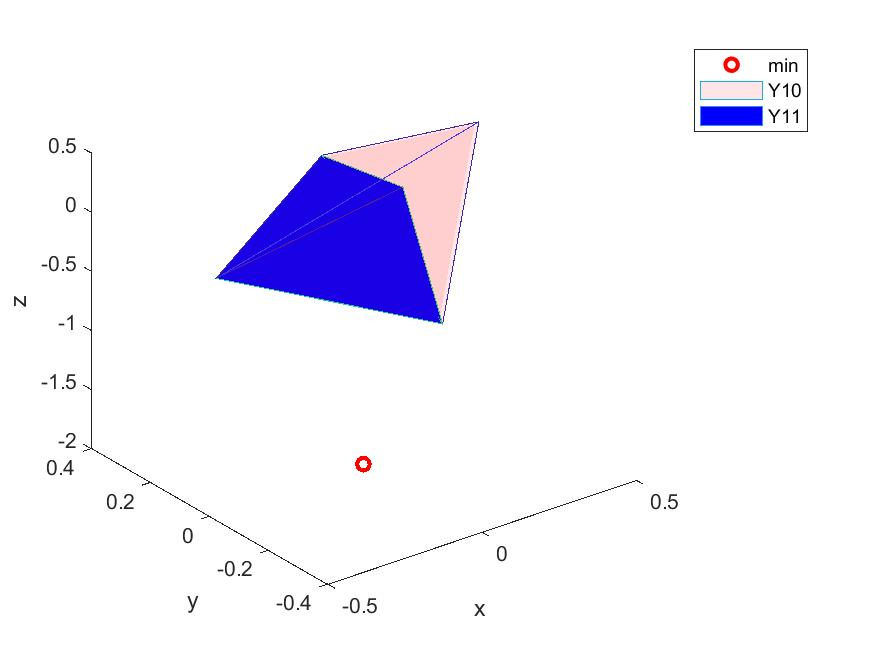
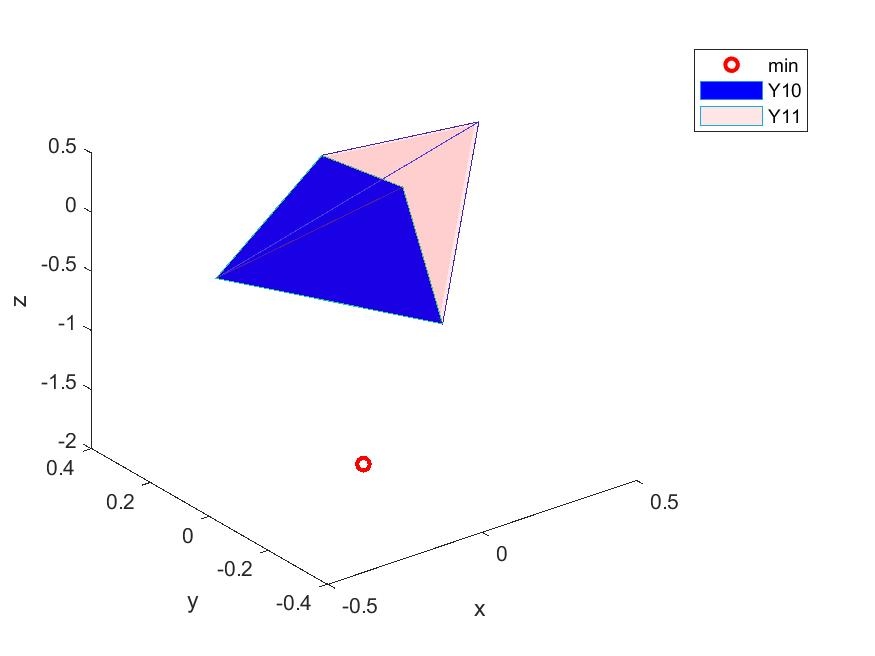
yo

diff --git a/simplexPlot.m b/simplexPlot.m
@@ -6,16 +6,24 @@ classdef simplexPlot
     methods(Static)
         function j = plot(X,Y,iter,outputFile)
             
-
             [k1,av1] = convhull(X(1,:),X(2,:),X(3,:));
             [k2,av2] = convhull(Y(1,:),Y(2,:),Y(3,:));
+            if mod(iter,2) == 1
             s1 = trimesh(k1,X(1,:),X(2,:),X(3,:),'FaceColor','red','DisplayName',strcat('Y',string(iter)));
             hold on;            
             s2 = trimesh(k2,Y(1,:),Y(2,:),Y(3,:),'FaceColor','blue','DisplayName',strcat('Y',string(iter+1)));
             alpha(s1,0.1);
             legend show;
-
+            else 
+            [k1,av1] = convhull(X(1,:),X(2,:),X(3,:));
+            [k2,av2] = convhull(Y(1,:),Y(2,:),Y(3,:));
+            s1 = trimesh(k2,Y(1,:),Y(2,:),Y(3,:),'FaceColor','blue','DisplayName',strcat('Y',string(iter)));
+            hold on;            
+            s2 = trimesh(k1,X(1,:),X(2,:),X(3,:),'FaceColor','red','DisplayName',strcat('Y',string(iter+1)));
+            alpha(s2,0.1);
+            legend show;    
             %saveas(gcf,strcat(outputFile,'simplex',string(iter), '-',string(iter+1),'.png'));
+            end
             hold off;
         end
         function j = plot2(X,Y,Z,W,iter,outputFile)

diff --git a/ToGetPicturesOfSimplexes.m b/ToGetPicturesOfSimplexes.m
@@ -42,7 +42,7 @@ f = @(x) x(1)^2+x(2)^2 - 2;
 
 %plot3(0, 0, -2, 'o', 'linewidth', 2, 'Color', 'r')
 
-for i = 1:length(YkTotal(1,1,:))
+for i = 1:length(YkTotal(1,1,:))-1
 destination = 'C:\Users\Tyler\Google Drive\UBCO 2016-2020\2020-2021\Term 1\MATH 462\Group_Project_Test\Cosc419KGroupProject\Nice_Function_gif\';
 plot3(YkTotal(1,1,end), YkTotal(2,1,end), fkbest(end), 'o', 'linewidth', 2, 'Color', 'r')
 hold on
